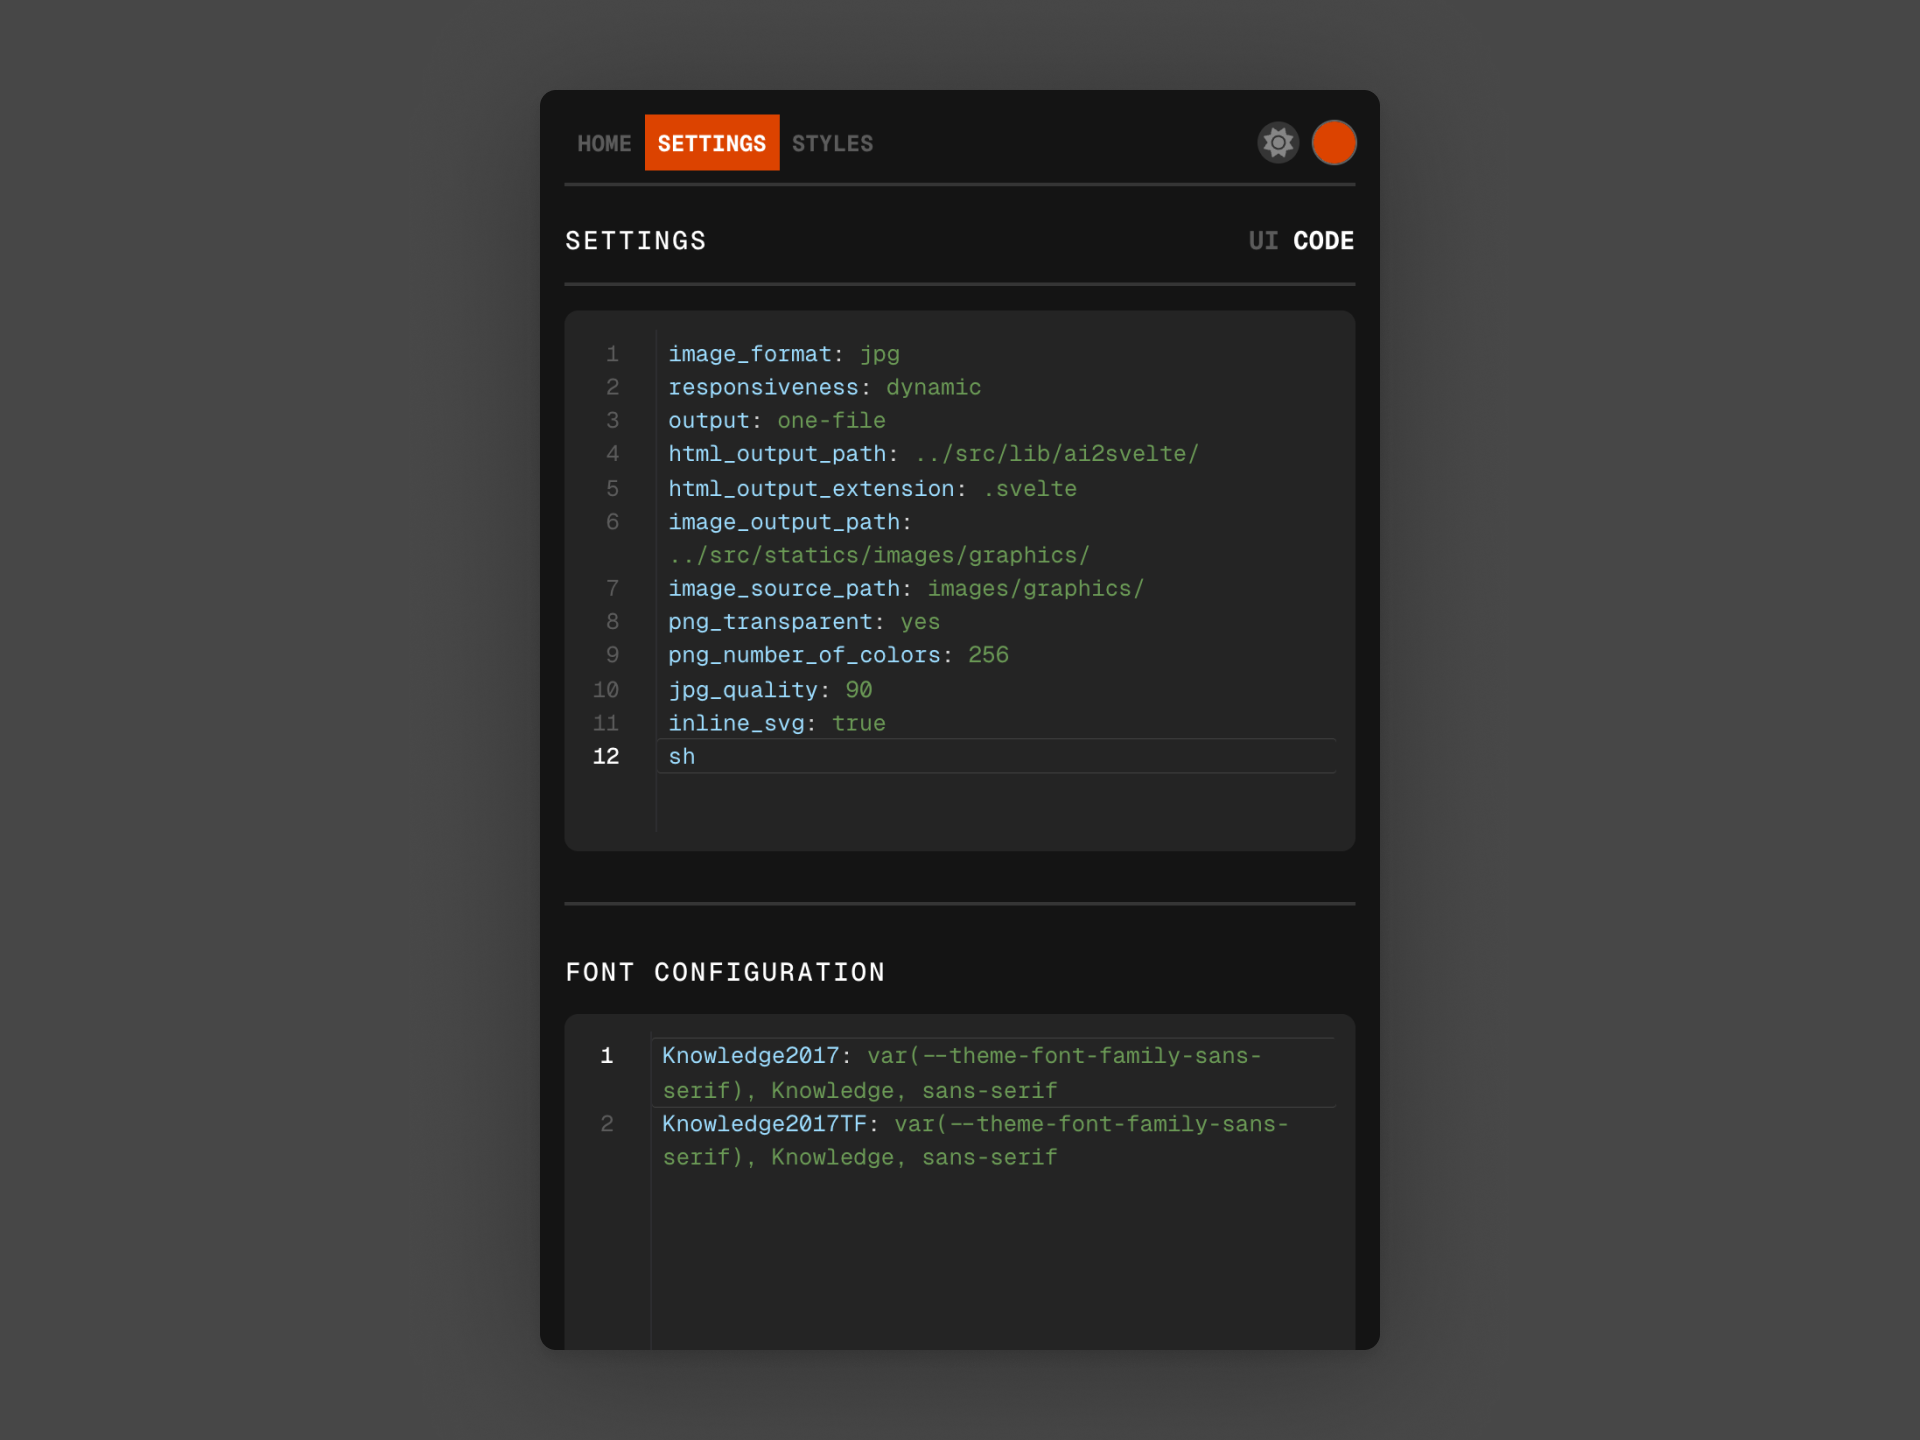
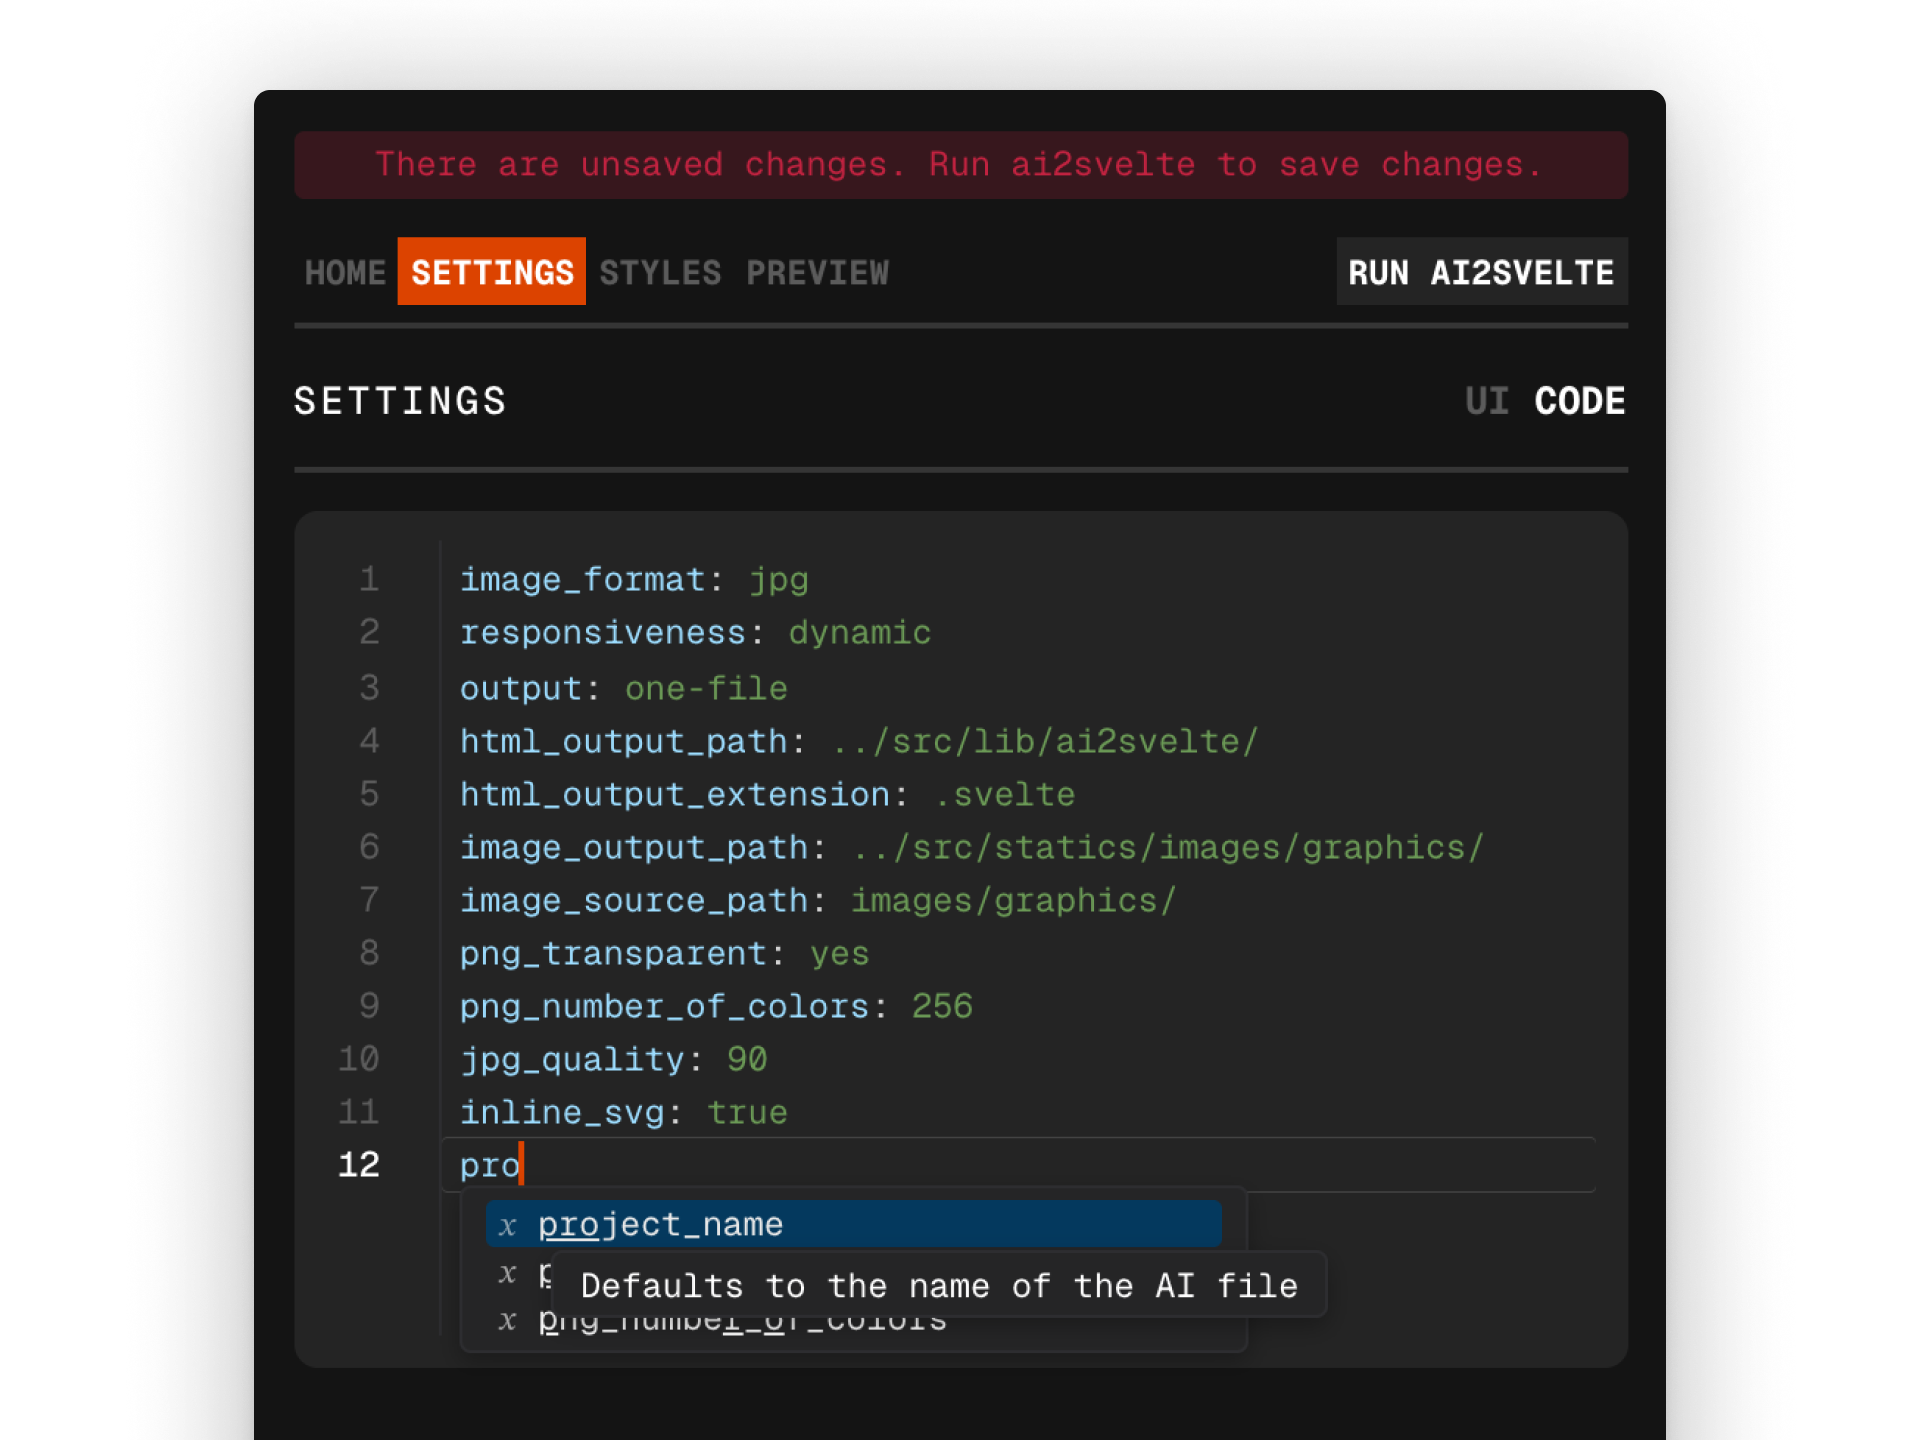
styling + docs

diff --git a/ai2svelte/src/js/main/styles/theme.scss b/ai2svelte/src/js/main/styles/theme.scss
@@ -8,9 +8,9 @@ $accent-secondary: #241e1c;
 $dark-theme: (
   background: hsl(0, 0%, 8%),
   primary: hsl(0, 0%, 14%),
-  secondary: #353535,
-  tertiary: #626262,
-
+  secondary: hsl(0, 0%, 21%),
+  tertiary: hsl(0, 0%, 38%),
+  ruler: hsl(0, 0%, 16%),
   invert: #000000,
 
   accent-primary: #dc4300,
@@ -26,6 +26,7 @@ $light-theme: (
   primary: #efefef,
   secondary: #eeeeee,
   tertiary: #aaa,
+  ruler: #e1e1e1,
 
   invert: #ffffff,
 

diff --git a/src/styles/custom.css b/src/styles/custom.css
@@ -70,3 +70,9 @@ html {
 .sl-link-button:where(.astro-uvehmazd).primary {
   color: var(--sl-color-white);
 }
+
+[data-image-component="true"] {
+  padding: 1rem;
+  border: 1px solid var(--sl-color-hairline);
+  border-radius: 8px;
+}

diff --git a/ai2svelte/src/js/main/Components/TabBar.svelte b/ai2svelte/src/js/main/Components/TabBar.svelte
@@ -144,7 +144,7 @@
     </div>
   </div>
 
-  <div class="tab-line"></div>
+  <hr class="tab-line" />
 </div>
 
 <style lang="scss">
@@ -187,12 +187,9 @@
   }
 
   .tab-line {
-    // position: absolute;
     margin-top: var(--space-xs);
     width: 100%;
     height: var(--space-3xs);
-    // top: 100%;
-    background-color: var(--color-secondary);
   }
 
   .tab-items {

diff --git a/ai2svelte/src/jsx/ilst/ai2svelte/settings.js b/ai2svelte/src/jsx/ilst/ai2svelte/settings.js
@@ -17,7 +17,7 @@ export let defaultSettings = {
   jpg_quality: 90,
   center_html_output: true,
   use_2x_images_if_possible: true,
-  use_lazy_loader: true,
+  use_lazy_loader: false,
   include_resizer_widths: true,
   include_resizer_css: true, // container-query resizing
   inline_svg: false, // Embed background image SVG in HTML instead of loading a file
@@ -49,7 +49,4 @@ export let placeholderSettings = {
   jpg_quality: 90,
   inline_svg: "true",
   max_width: null,
-  isPreview: false,
-  respect_height: false,
-  override_text: false,
 };

diff --git a/ai2svelte/src/js/main/utils/utils.ts b/ai2svelte/src/js/main/utils/utils.ts
@@ -115,6 +115,9 @@ export const myTheme = EditorView.theme(
       backgroundColor: "transparent !important",
       boxShadow: "0 -0.5px 0 0 #80808055, 0 0.5px 0 0 #80808055",
     },
+    ".cm-tooltip": {
+      color: "var(--color-text) !important",
+    },
   },
   { dark: true },
 );

diff --git a/ai2svelte/src/js/main/styles/main.scss b/ai2svelte/src/js/main/styles/main.scss
@@ -13,7 +13,7 @@
 
 hr {
   width: 100%;
-  border: 1px solid var(--color-secondary);
+  border: 1px solid var(--color-ruler);
 }
 
 .content {